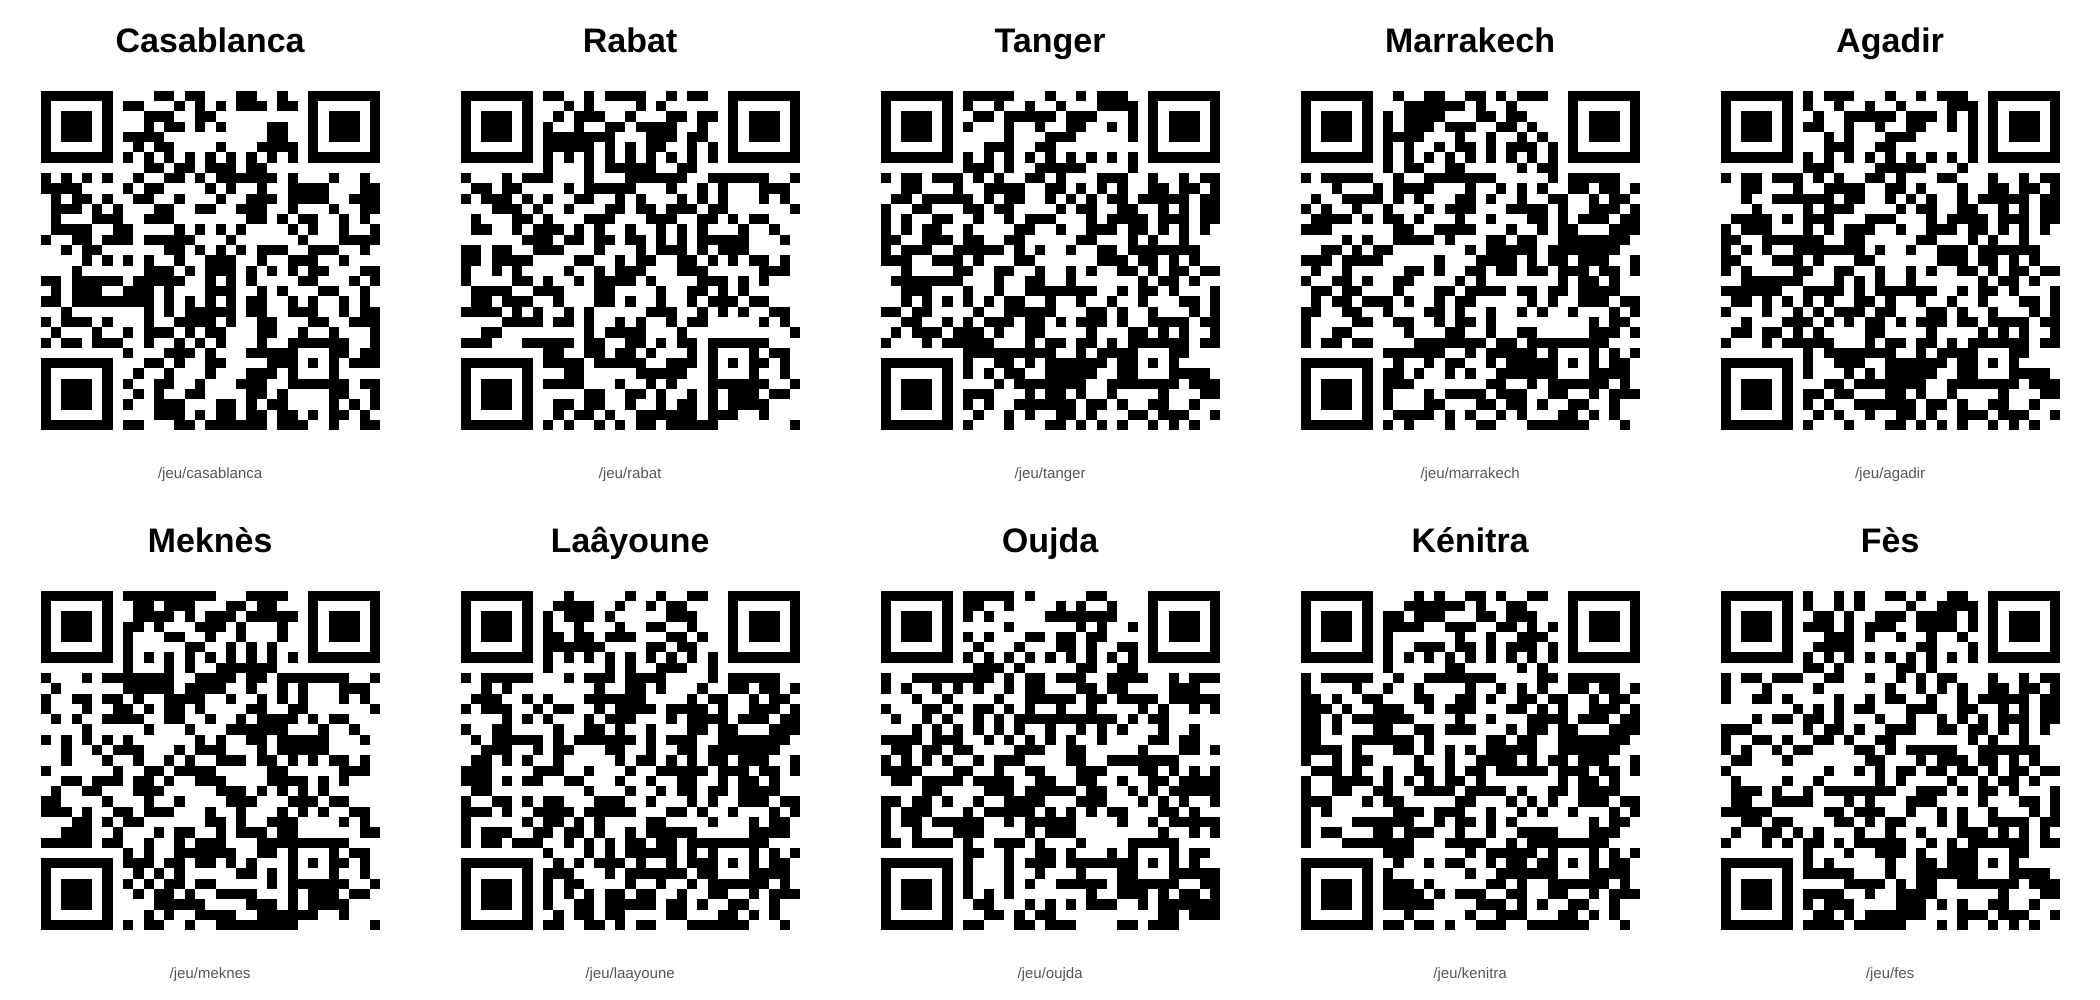
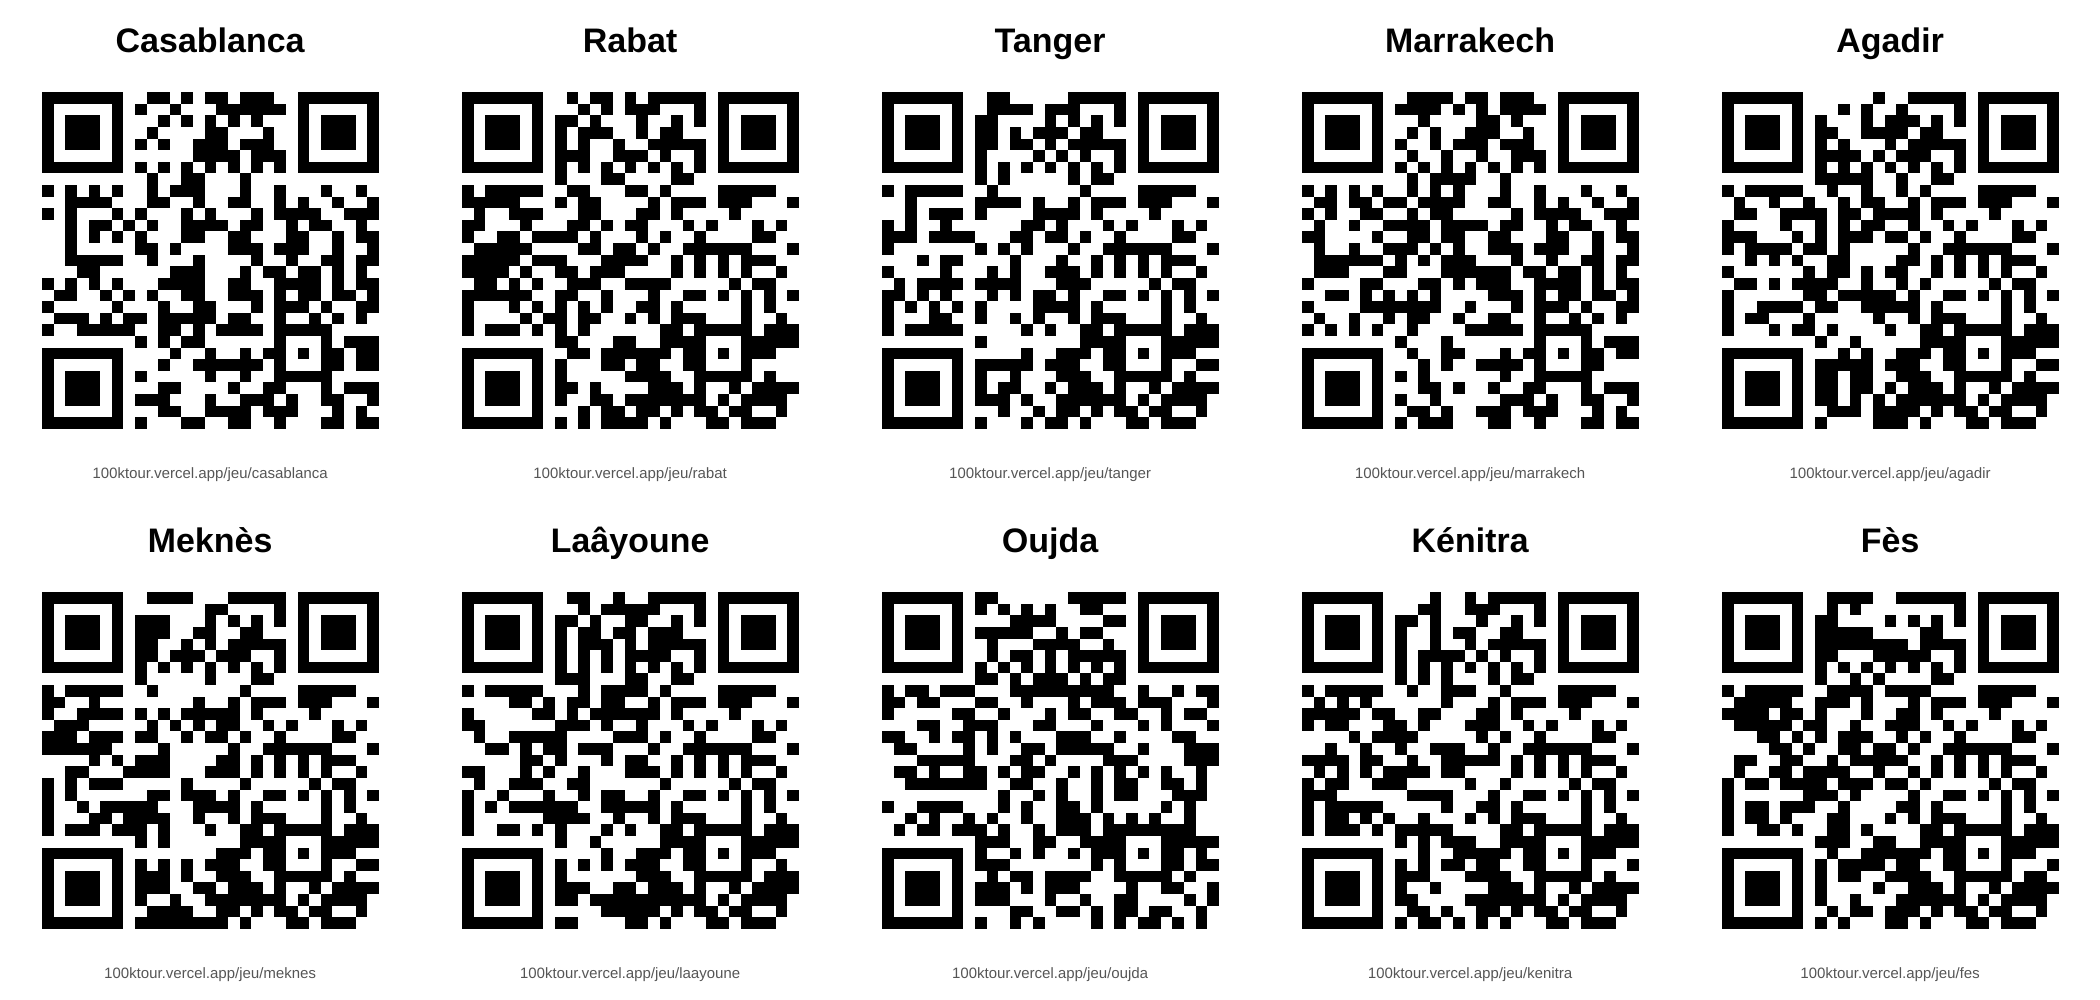
Regenerate QR codes for 100ktour.vercel.app and document the new features
Claude-Session: https://claude.ai/code/session_017dcNxoPsknv3zcCTNWEW9u

diff --git a/100ktour/src/app/admin/(panel)/page.tsx b/100ktour/src/app/admin/(panel)/page.tsx
@@ -213,7 +213,7 @@ export default async function Dashboard({ searchParams }: { searchParams: Promis
                     <td>
                       <div className="row row-tight">
                         <CopyButton text={link} label="Lien" />
-                        <a className="b b-quiet" href={`/admin/qr/${s.slug}`} download={`qr-100k-${s.slug}.png`}>
+                        <a className="b b-quiet" href={`/admin/qr/${s.slug}`} download={`qr-100ktour-${s.slug}.png`}>
                           QR code
                         </a>
                       </div>

diff --git a/100ktour/src/app/admin/qr/[slug]/route.ts b/100ktour/src/app/admin/qr/[slug]/route.ts
@@ -13,7 +13,7 @@ export async function GET(req: Request, { params }: { params: Promise<{ slug: st
   return new Response(new Uint8Array(png), {
     headers: {
       'Content-Type': 'image/png',
-      'Content-Disposition': `attachment; filename="qr-100k-${slug}.png"`,
+      'Content-Disposition': `attachment; filename="qr-100ktour-${slug}.png"`,
       'Cache-Control': 'no-store',
     },
   });

diff --git a/100ktour/README.md b/100ktour/README.md
@@ -20,7 +20,26 @@ un bon d'achat de 1000 DH à gagner quand elle aligne 1 · 0 · 0, un stock de b
   L'adresse IP ne sert qu'à freiner les abus, car un Wi-Fi de magasin partage la même adresse.
 - Le magasin est verrouillé pendant le tirage : le dernier bon ne peut pas être gagné deux fois.
 - Quand tous les bons d'une ville sont gagnés, le jeu s'y arrête et affiche un message.
-- Un gagnant reçoit un code unique (`PS-XXXXXX`). Le magasin le valide une seule fois.
+- **Créneau de gain** (facultatif, par ville) : heure d'ouverture, heure de montée, heure de fermeture et
+  nombre de gagnants par jour. La chance reste à son niveau de base jusqu'à l'heure de montée, puis grimpe
+  jusqu'à 100 % à la fermeture (carré du temps écoulé). Une fois le quota du jour atteint, la ville se ferme
+  jusqu'au lendemain. Hors horaires, le jeu est fermé.
+- Un gagnant reçoit un code unique (`PS-XXXXXX`). Le magasin le valide une seule fois, avec son code à
+  6 chiffres et le nom de la personne qui remet le bon.
+
+## Langues, son, liens
+
+- Le joueur choisit le français ou l'arabe au premier écran (`src/app/jeu/[slug]/i18n.ts`).
+- Les sons sont synthétisés dans le navigateur ; la vibration ne fonctionne que sur Android.
+- Les écrans de fin renvoient vers le site, Instagram et TikTok (réglages généraux du back-office). Avec un
+  numéro WhatsApp, le gagnant peut envoyer son code à Planet Sport en un geste.
+
+## Sauvegardes
+
+Chaque nuit à 23 h 30 (heure du Maroc), Vercel Cron appelle `/api/backup`, qui copie tous les participants
+dans un stockage Vercel Blob privé, hors de la base de données. Il faut pour cela créer un Blob store dans
+Vercel et le relier au projet (variable `BLOB_READ_WRITE_TOKEN`). Sans ce stockage, seul l'export Excel
+manuel est disponible.
 
 ## Architecture
 
@@ -42,7 +61,7 @@ tests/           tests unitaires et vérification des règles du tirage
 
 ## Installation
 
-1. Appliquer `supabase/migrations/0001_ps100k_init.sql` sur le projet Supabase.
+1. Appliquer les fichiers de `supabase/migrations/` dans l'ordre sur le projet Supabase.
 2. Générer deux secrets et le mot de passe initial, puis les enregistrer dans la base :
 
    ```sql
@@ -52,7 +71,7 @@ tests/           tests unitaires et vérification des règles du tirage
    ```
 
 3. Renseigner les variables de `.env.example` dans Vercel (ou dans `.env.local` en local).
-4. Dans Vercel, le dossier racine du projet est `planet-100k`.
+4. Dans Vercel, le dossier racine du projet est `100ktour` et la branche de production est `main`.
 
 ## Commandes
 
